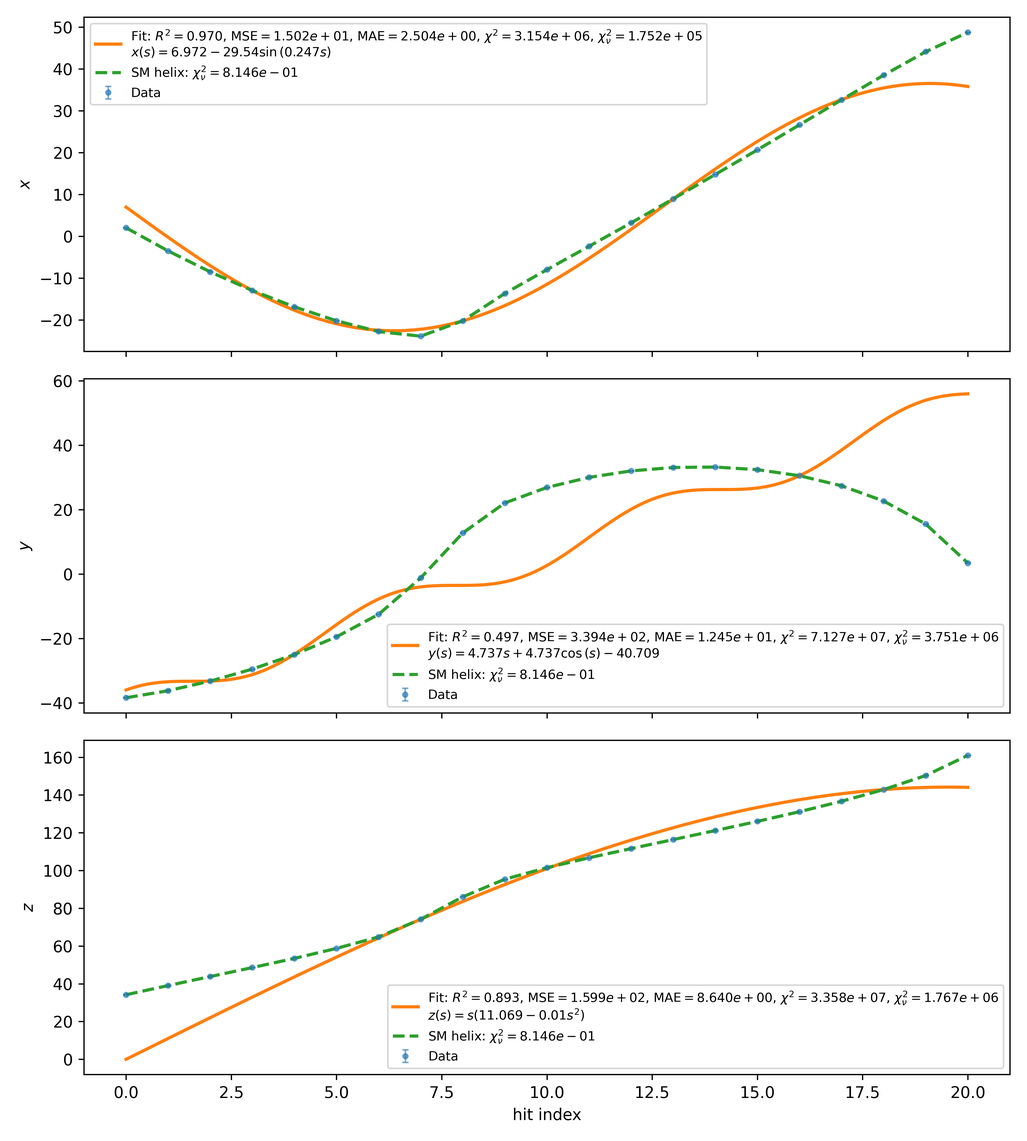
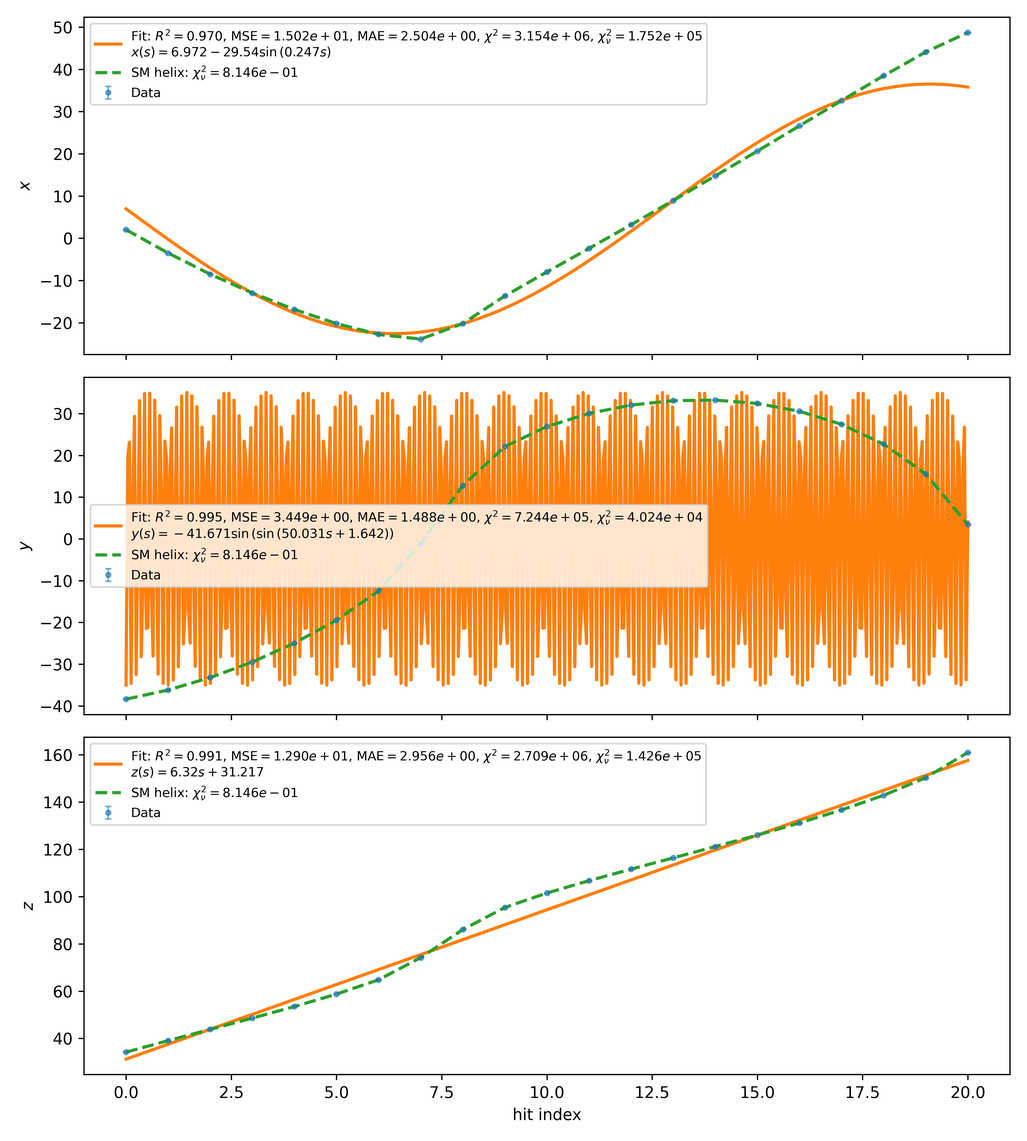
tracks

diff --git a/Whiteson/v20260122_163839__train10_test10__layers25_len320p0__r3p1-53p0__fd25-25__func3-3__noiseXY0p01_Z0p01.html b/Whiteson/v20260122_163839__train10_test10__layers25_len320p0__r3p1-53p0__fd25-25__func3-3__noiseXY0p01_Z0p01.html
@@ -67,8 +67,21 @@
     .eqJump:hover {
       border-bottom-style: solid;
     }
-
     
+    .eqScroll {
+      margin-top: 8px;
+      padding: 10px 12px;
+      background: #f7f7f7;
+      border: 1px solid #eee;
+      border-radius: 12px;
+      overflow-x: auto;
+      overflow-y: hidden;
+      white-space: nowrap;
+    }
+    .eqScroll mjx-container {
+      display: inline-block; /* keeps MathJax from forcing weird wraps */
+    }
+
     .meta { font-size: 13px; color: #444; margin: 6px 0 0; }
     .meta b { font-weight: 600; }
 
@@ -118,8 +131,8 @@
 
   <script>
     // Data injected from Python below
-    const slides = [{"fid": 0, "Fx": 0, "Fy": 9, "Fz": 5, "track_idx": 0, "event_id": "event100000001-hits", "png": "pngs/SR_track_v20260122_163839__train10_test10__layers25_len320p0__r3p1-53p0__fd25-25__func3-3__noiseXY0p01_Z0p01event100000001-hits.png", "img_src": "pngs/SR_track_v20260122_163839__train10_test10__layers25_len320p0__r3p1-53p0__fd25-25__func3-3__noiseXY0p01_Z0p01event100000001-hits.png", "metrics_line": "\\begin{align*}&R^2:\\, x=0.776,\\;y=0.970,\\;z=0.725\\\\&\\chi^2_\\nu:\\;\\mathrm{x}=2.898 \\times 10^{5},\\;\\mathrm{y}=7.390 \\times 10^{4},\\;\\mathrm{z}=1.768 \\times 10^{6}\\end{align*}", "eqx": "$x(s) = - 7.415 \\sqrt{s} + s^{\\cos{\\left(s \\right)}}$", "eqy": "$y(s) = - 2 s - \\cos{\\left(s \\right)} + 7.898$", "eqz": "$z(s) = 71.182 \\sin{\\left(\\frac{s}{\\cos{\\left(s \\right)} - 14.387} \\right)}$"}, {"fid": 1, "Fx": 8, "Fy": 1, "Fz": 1, "track_idx": 1, "event_id": "event100000002-hits", "png": "pngs/SR_track_v20260122_163839__train10_test10__layers25_len320p0__r3p1-53p0__fd25-25__func3-3__noiseXY0p01_Z0p01event100000002-hits.png", "img_src": "pngs/SR_track_v20260122_163839__train10_test10__layers25_len320p0__r3p1-53p0__fd25-25__func3-3__noiseXY0p01_Z0p01event100000002-hits.png", "metrics_line": "\\begin{align*}&R^2:\\, x=1.000,\\;y=0.999,\\;z=1.000\\\\&\\chi^2_\\nu:\\;\\mathrm{x}=6.955 \\times 10^{0},\\;\\mathrm{y}=1.372 \\times 10^{2},\\;\\mathrm{z}=4.985 \\times 10^{0}\\end{align*}", "eqx": "$x(s) = s \\left(2.141 - 0.005 s\\right) + 2.886$", "eqy": "$y(s) = - s \\tanh{\\left(\\tanh{\\left(0.031 s \\right)} \\right)} + 1.307$", "eqz": "$z(s) = 0.137 \\left(0.285 s + 1\\right)^{2.309} + 0.161$"}, {"fid": 2, "Fx": 12, "Fy": 5, "Fz": 6, "track_idx": 2, "event_id": "event100000003-hits", "png": "pngs/SR_track_v20260122_163839__train10_test10__layers25_len320p0__r3p1-53p0__fd25-25__func3-3__noiseXY0p01_Z0p01event100000003-hits.png", "img_src": "pngs/SR_track_v20260122_163839__train10_test10__layers25_len320p0__r3p1-53p0__fd25-25__func3-3__noiseXY0p01_Z0p01event100000003-hits.png", "metrics_line": "\\begin{align*}&R^2:\\, x=0.557,\\;y=0.682,\\;z=0.715\\\\&\\chi^2_\\nu:\\;\\mathrm{x}=1.803 \\times 10^{6},\\;\\mathrm{y}=1.831 \\times 10^{6},\\;\\mathrm{z}=5.108 \\times 10^{6}\\end{align*}", "eqx": "$x(s) = 24.583 \\sin{\\left(\\sin{\\left(0.126 s \\right)} - 0.237 \\right)}$", "eqy": "$y(s) = - 28.114 \\sin{\\left(0.086 s \\right)} - 3.495$", "eqz": "$z(s) = s \\left(- 1.282 \\cdot 10^{-8} s^{3.382} - 0.36\\right)$"}, {"fid": 3, "Fx": 13, "Fy": 8, "Fz": 7, "track_idx": 3, "event_id": "event100000004-hits", "png": "pngs/SR_track_v20260122_163839__train10_test10__layers25_len320p0__r3p1-53p0__fd25-25__func3-3__noiseXY0p01_Z0p01event100000004-hits.png", "img_src": "pngs/SR_track_v20260122_163839__train10_test10__layers25_len320p0__r3p1-53p0__fd25-25__func3-3__noiseXY0p01_Z0p01event100000004-hits.png", "metrics_line": "\\begin{align*}&R^2:\\, x=0.845,\\;y=0.541,\\;z=0.459\\\\&\\chi^2_\\nu:\\;\\mathrm{x}=1.031 \\times 10^{6},\\;\\mathrm{y}=1.600 \\times 10^{6},\\;\\mathrm{z}=2.529 \\times 10^{6}\\end{align*}", "eqx": "$x(s) = 54.152 \\tanh{\\left(\\tanh{\\left(\\sin{\\left(\\sin{\\left(0.042 s \\right)} \\right)} \\right)} \\right)}$", "eqy": "$y(s) = s^{0.706} \\cos{\\left(s^{0.548} \\right)}$", "eqz": "$z(s) = s^{\\sin{\\left(1.224 e^{\\sin{\\left(\\sqrt{s} \\right)}} \\right)}}$"}, {"fid": 4, "Fx": 14, "Fy": 7, "Fz": 4, "track_idx": 4, "event_id": "event100000005-hits", "png": "pngs/SR_track_v20260122_163839__train10_test10__layers25_len320p0__r3p1-53p0__fd25-25__func3-3__noiseXY0p01_Z0p01event100000005-hits.png", "img_src": "pngs/SR_track_v20260122_163839__train10_test10__layers25_len320p0__r3p1-53p0__fd25-25__func3-3__noiseXY0p01_Z0p01event100000005-hits.png", "metrics_line": "\\begin{align*}&R^2:\\, x=0.994,\\;y=0.999,\\;z=0.944\\\\&\\chi^2_\\nu:\\;\\mathrm{x}=5.108 \\times 10^{3},\\;\\mathrm{y}=1.431 \\times 10^{3},\\;\\mathrm{z}=7.253 \\times 10^{4}\\end{align*}", "eqx": "$x(s) = s \\sin{\\left(\\cos{\\left(0.13 s \\right)} \\right)} + 4.427$", "eqy": "$y(s) = 2.114 s \\sqrt{1 - 0.223 \\sin{\\left(\\cos{\\left(\\sqrt{s} \\right)} \\right)}}$", "eqz": "$z(s) = s \\cos{\\left(0.151 s \\right)} + 5.885$"}];
-    const eqSlides = [{"key": ["x", "Add(Mul(Symbol('a0'), Pow(Symbol('s'), Rational(1, 2))), Pow(Symbol('s'), cos(Symbol('s'))))"], "eq": "$x(s) = a_{0} \\sqrt{s} + s^{\\cos{\\left(s \\right)}}$", "uses": [{"slide": 0, "label": "1-x", "rep_fam": 0}]}, {"key": ["y", "Add(Symbol('a0'), Mul(Integer(-1), Integer(2), Symbol('s')), Mul(Integer(-1), cos(Symbol('s'))))"], "eq": "$y(s) = a_{0} - 2 s - \\cos{\\left(s \\right)}$", "uses": [{"slide": 0, "label": "1-y", "rep_fam": 9}]}, {"key": ["z", "Mul(Symbol('a1'), sin(Mul(Symbol('s'), Pow(Add(Symbol('a0'), cos(Symbol('s'))), Integer(-1)))))"], "eq": "$z(s) = a_{1} \\sin{\\left(\\frac{s}{a_{0} + \\cos{\\left(s \\right)}} \\right)}$", "uses": [{"slide": 0, "label": "1-z", "rep_fam": 5}]}, {"key": ["x", "Add(Symbol('a2'), Mul(Symbol('s'), Add(Mul(Symbol('a0'), Symbol('s')), Symbol('a1'))))"], "eq": "$x(s) = a_{2} + s \\left(a_{0} s + a_{1}\\right)$", "uses": [{"slide": 1, "label": "2-x", "rep_fam": 8}]}, {"key": ["y", "Add(Symbol('a1'), Mul(Integer(-1), Symbol('s'), tanh(tanh(Mul(Symbol('a0'), Symbol('s'))))))"], "eq": "$y(s) = a_{1} - s \\tanh{\\left(\\tanh{\\left(a_{0} s \\right)} \\right)}$", "uses": [{"slide": 1, "label": "2-y", "rep_fam": 1}]}, {"key": ["z", "Add(Mul(Symbol('a0'), Pow(Add(Mul(Symbol('a2'), Symbol('s')), Integer(1)), Symbol('a3'))), Symbol('a1'))"], "eq": "$z(s) = a_{0} \\left(a_{2} s + 1\\right)^{a_{3}} + a_{1}$", "uses": [{"slide": 1, "label": "2-z", "rep_fam": 1}]}, {"key": ["x", "Mul(Symbol('a2'), sin(Add(Symbol('a0'), sin(Mul(Symbol('a1'), Symbol('s'))))))"], "eq": "$x(s) = a_{2} \\sin{\\left(a_{0} + \\sin{\\left(a_{1} s \\right)} \\right)}$", "uses": [{"slide": 2, "label": "3-x", "rep_fam": 12}]}, {"key": ["y", "Add(Mul(Symbol('a0'), sin(Mul(Symbol('a2'), Symbol('s')))), Symbol('a1'))"], "eq": "$y(s) = a_{0} \\sin{\\left(a_{2} s \\right)} + a_{1}$", "uses": [{"slide": 2, "label": "3-y", "rep_fam": 5}]}, {"key": ["z", "Mul(Symbol('s'), Add(Symbol('a0'), Mul(Symbol('a1'), Pow(Symbol('s'), Symbol('a2')))))"], "eq": "$z(s) = s \\left(a_{0} + a_{1} s^{a_{2}}\\right)$", "uses": [{"slide": 2, "label": "3-z", "rep_fam": 6}]}, {"key": ["x", "Mul(Symbol('a1'), tanh(tanh(sin(sin(Mul(Symbol('a0'), Symbol('s')))))))"], "eq": "$x(s) = a_{1} \\tanh{\\left(\\tanh{\\left(\\sin{\\left(\\sin{\\left(a_{0} s \\right)} \\right)} \\right)} \\right)}$", "uses": [{"slide": 3, "label": "4-x", "rep_fam": 13}]}, {"key": ["y", "Mul(Pow(Symbol('s'), Symbol('a1')), cos(Pow(Symbol('s'), Symbol('a0'))))"], "eq": "$y(s) = s^{a_{1}} \\cos{\\left(s^{a_{0}} \\right)}$", "uses": [{"slide": 3, "label": "4-y", "rep_fam": 8}]}, {"key": ["z", "Pow(Symbol('s'), sin(Mul(Symbol('a0'), exp(sin(Pow(Symbol('s'), Rational(1, 2)))))))"], "eq": "$z(s) = s^{\\sin{\\left(a_{0} e^{\\sin{\\left(\\sqrt{s} \\right)}} \\right)}}$", "uses": [{"slide": 3, "label": "4-z", "rep_fam": 7}]}, {"key": ["x", "Add(Symbol('a1'), Mul(Symbol('s'), sin(cos(Mul(Symbol('a0'), Symbol('s'))))))"], "eq": "$x(s) = a_{1} + s \\sin{\\left(\\cos{\\left(a_{0} s \\right)} \\right)}$", "uses": [{"slide": 4, "label": "5-x", "rep_fam": 14}]}, {"key": ["y", "Mul(Symbol('a1'), Symbol('s'), Pow(Add(Mul(Symbol('a0'), sin(cos(Pow(Symbol('s'), Rational(1, 2))))), Integer(1)), Rational(1, 2)))"], "eq": "$y(s) = a_{1} s \\sqrt{a_{0} \\sin{\\left(\\cos{\\left(\\sqrt{s} \\right)} \\right)} + 1}$", "uses": [{"slide": 4, "label": "5-y", "rep_fam": 7}]}, {"key": ["z", "Add(Symbol('a1'), Mul(Symbol('s'), cos(Mul(Symbol('a0'), Symbol('s')))))"], "eq": "$z(s) = a_{1} + s \\cos{\\left(a_{0} s \\right)}$", "uses": [{"slide": 4, "label": "5-z", "rep_fam": 4}]}];
+    const slides = [{"fid": 0, "Fx": 0, "Fy": 9, "Fz": 5, "track_idx": 0, "event_id": "event100000001-hits", "png": "pngs/SR_track_v20260122_163839__train10_test10__layers25_len320p0__r3p1-53p0__fd25-25__func3-3__noiseXY0p01_Z0p01event100000001-hits.png", "img_src": "pngs/SR_track_v20260122_163839__train10_test10__layers25_len320p0__r3p1-53p0__fd25-25__func3-3__noiseXY0p01_Z0p01event100000001-hits.png", "metrics_line": "\\begin{align*}&R^2:\\, x=0.776,\\;y=0.970,\\;z=0.725\\\\&\\chi^2_\\nu:\\;\\mathrm{x}=2.898 \\times 10^{5},\\;\\mathrm{y}=7.390 \\times 10^{4},\\;\\mathrm{z}=1.768 \\times 10^{6}\\end{align*}", "eqx": "$x(s) = - 7.415 \\sqrt{s} + s^{\\cos{\\left(s \\right)}}$", "eqy": "$y(s) = - 2 s - \\cos{\\left(s \\right)} + 7.898$", "eqz": "$z(s) = 71.182 \\sin{\\left(\\frac{s}{\\cos{\\left(s \\right)} - 14.387} \\right)}$"}, {"fid": 1, "Fx": 8, "Fy": 1, "Fz": 1, "track_idx": 1, "event_id": "event100000002-hits", "png": "pngs/SR_track_v20260122_163839__train10_test10__layers25_len320p0__r3p1-53p0__fd25-25__func3-3__noiseXY0p01_Z0p01event100000002-hits.png", "img_src": "pngs/SR_track_v20260122_163839__train10_test10__layers25_len320p0__r3p1-53p0__fd25-25__func3-3__noiseXY0p01_Z0p01event100000002-hits.png", "metrics_line": "\\begin{align*}&R^2:\\, x=1.000,\\;y=0.999,\\;z=1.000\\\\&\\chi^2_\\nu:\\;\\mathrm{x}=6.955 \\times 10^{0},\\;\\mathrm{y}=1.372 \\times 10^{2},\\;\\mathrm{z}=4.985 \\times 10^{0}\\end{align*}", "eqx": "$x(s) = s \\left(2.141 - 0.005 s\\right) + 2.886$", "eqy": "$y(s) = - s \\tanh{\\left(\\tanh{\\left(0.031 s \\right)} \\right)} + 1.307$", "eqz": "$z(s) = 0.137 \\left(0.285 s + 1\\right)^{2.309} + 0.161$"}, {"fid": 2, "Fx": 12, "Fy": 5, "Fz": 29, "track_idx": 2, "event_id": "event100000003-hits", "png": "pngs/SR_track_v20260122_163839__train10_test10__layers25_len320p0__r3p1-53p0__fd25-25__func3-3__noiseXY0p01_Z0p01event100000003-hits.png", "img_src": "pngs/SR_track_v20260122_163839__train10_test10__layers25_len320p0__r3p1-53p0__fd25-25__func3-3__noiseXY0p01_Z0p01event100000003-hits.png", "metrics_line": "\\begin{align*}&R^2:\\, x=0.557,\\;y=0.682,\\;z=0.999\\\\&\\chi^2_\\nu:\\;\\mathrm{x}=1.803 \\times 10^{6},\\;\\mathrm{y}=1.831 \\times 10^{6},\\;\\mathrm{z}=1.431 \\times 10^{4}\\end{align*}", "eqx": "$x(s) = 24.583 \\sin{\\left(\\sin{\\left(0.126 s \\right)} - 0.237 \\right)}$", "eqy": "$y(s) = - 28.114 \\sin{\\left(0.086 s \\right)} - 3.495$", "eqz": "$z(s) = 2 s - 2.443 s^{{1.026}^{\\cos{\\left(\\sqrt{s} \\right)}}} - 4.846 \\sin{\\left(0.367 s \\right)} + 2.454 \\sin{\\left(0.45 s \\right)} + \\sin{\\left(1.792 \\sqrt{0.311 {1.052}^{s^{0.993}} + 1} \\right)} + \\sin{\\left(\\cos{\\left(0.278 s^{1.114} \\right)} \\right)} + \\cos{\\left(2.055 s^{0.841} \\right)} + 1.545 \\cos{\\left(0.592 s \\right)} + \\cos{\\left(0.697 s \\right)} + 8.162 \\cos{\\left(s^{0.693} - 2.638 \\right)} + 26.135 \\cos{\\left(54.534 \\sqrt{0.006 s + 1} \\right)} + \\cos{\\left(\\log{\\left({1.502}^{s^{0.998}} \\right)} \\right)} + 25.153 \\tanh{\\left(\\cos{\\left({1.014}^{s} \\right)} \\right)} - 1.144 - \\frac{0.041}{\\operatorname{asin}{\\left(\\cos{\\left(1.065 \\sqrt{0.882 s + 1} \\right)} \\right)}} - \\frac{0.032}{\\sin{\\left(4 s - 3.046 \\right)}} + e^{- 1.983 \\sin{\\left(0.266 s - 0.668 \\right)}} - \\frac{6.012 \\cos{\\left(s - 9.779 \\right)}}{s + 1.214} + \\frac{2.253}{s - 43.423} + \\frac{11.891}{118.389 - s}$"}, {"fid": 3, "Fx": 13, "Fy": 8, "Fz": 7, "track_idx": 3, "event_id": "event100000004-hits", "png": "pngs/SR_track_v20260122_163839__train10_test10__layers25_len320p0__r3p1-53p0__fd25-25__func3-3__noiseXY0p01_Z0p01event100000004-hits.png", "img_src": "pngs/SR_track_v20260122_163839__train10_test10__layers25_len320p0__r3p1-53p0__fd25-25__func3-3__noiseXY0p01_Z0p01event100000004-hits.png", "metrics_line": "\\begin{align*}&R^2:\\, x=0.845,\\;y=0.541,\\;z=0.459\\\\&\\chi^2_\\nu:\\;\\mathrm{x}=1.031 \\times 10^{6},\\;\\mathrm{y}=1.600 \\times 10^{6},\\;\\mathrm{z}=2.529 \\times 10^{6}\\end{align*}", "eqx": "$x(s) = 54.152 \\tanh{\\left(\\tanh{\\left(\\sin{\\left(\\sin{\\left(0.042 s \\right)} \\right)} \\right)} \\right)}$", "eqy": "$y(s) = s^{0.706} \\cos{\\left(s^{0.548} \\right)}$", "eqz": "$z(s) = s^{\\sin{\\left(1.224 e^{\\sin{\\left(\\sqrt{s} \\right)}} \\right)}}$"}, {"fid": 4, "Fx": 14, "Fy": 7, "Fz": 4, "track_idx": 4, "event_id": "event100000005-hits", "png": "pngs/SR_track_v20260122_163839__train10_test10__layers25_len320p0__r3p1-53p0__fd25-25__func3-3__noiseXY0p01_Z0p01event100000005-hits.png", "img_src": "pngs/SR_track_v20260122_163839__train10_test10__layers25_len320p0__r3p1-53p0__fd25-25__func3-3__noiseXY0p01_Z0p01event100000005-hits.png", "metrics_line": "\\begin{align*}&R^2:\\, x=0.994,\\;y=0.999,\\;z=0.944\\\\&\\chi^2_\\nu:\\;\\mathrm{x}=5.108 \\times 10^{3},\\;\\mathrm{y}=1.431 \\times 10^{3},\\;\\mathrm{z}=7.253 \\times 10^{4}\\end{align*}", "eqx": "$x(s) = s \\sin{\\left(\\cos{\\left(0.13 s \\right)} \\right)} + 4.427$", "eqy": "$y(s) = 2.114 s \\sqrt{1 - 0.223 \\sin{\\left(\\cos{\\left(\\sqrt{s} \\right)} \\right)}}$", "eqz": "$z(s) = s \\cos{\\left(0.151 s \\right)} + 5.885$"}];
+    const eqSlides = [{"key": ["x", "Add(Mul(Symbol('a0'), Pow(Symbol('s'), Rational(1, 2))), Pow(Symbol('s'), cos(Symbol('s'))))"], "eq": "$x(s) = a_{0} \\sqrt{s} + s^{\\cos{\\left(s \\right)}}$", "uses": [{"slide": 0, "label": "1-x", "rep_fam": 0}]}, {"key": ["y", "Add(Symbol('a0'), Mul(Integer(-1), Integer(2), Symbol('s')), Mul(Integer(-1), cos(Symbol('s'))))"], "eq": "$y(s) = a_{0} - 2 s - \\cos{\\left(s \\right)}$", "uses": [{"slide": 0, "label": "1-y", "rep_fam": 9}]}, {"key": ["z", "Mul(Symbol('a1'), sin(Mul(Symbol('s'), Pow(Add(Symbol('a0'), cos(Symbol('s'))), Integer(-1)))))"], "eq": "$z(s) = a_{1} \\sin{\\left(\\frac{s}{a_{0} + \\cos{\\left(s \\right)}} \\right)}$", "uses": [{"slide": 0, "label": "1-z", "rep_fam": 5}]}, {"key": ["x", "Add(Symbol('a2'), Mul(Symbol('s'), Add(Mul(Symbol('a0'), Symbol('s')), Symbol('a1'))))"], "eq": "$x(s) = a_{2} + s \\left(a_{0} s + a_{1}\\right)$", "uses": [{"slide": 1, "label": "2-x", "rep_fam": 8}]}, {"key": ["y", "Add(Symbol('a1'), Mul(Integer(-1), Symbol('s'), tanh(tanh(Mul(Symbol('a0'), Symbol('s'))))))"], "eq": "$y(s) = a_{1} - s \\tanh{\\left(\\tanh{\\left(a_{0} s \\right)} \\right)}$", "uses": [{"slide": 1, "label": "2-y", "rep_fam": 1}]}, {"key": ["z", "Add(Mul(Symbol('a0'), Pow(Add(Mul(Symbol('a2'), Symbol('s')), Integer(1)), Symbol('a3'))), Symbol('a1'))"], "eq": "$z(s) = a_{0} \\left(a_{2} s + 1\\right)^{a_{3}} + a_{1}$", "uses": [{"slide": 1, "label": "2-z", "rep_fam": 1}]}, {"key": ["x", "Mul(Symbol('a2'), sin(Add(Symbol('a0'), sin(Mul(Symbol('a1'), Symbol('s'))))))"], "eq": "$x(s) = a_{2} \\sin{\\left(a_{0} + \\sin{\\left(a_{1} s \\right)} \\right)}$", "uses": [{"slide": 2, "label": "3-x", "rep_fam": 12}]}, {"key": ["y", "Add(Mul(Symbol('a0'), sin(Mul(Symbol('a2'), Symbol('s')))), Symbol('a1'))"], "eq": "$y(s) = a_{0} \\sin{\\left(a_{2} s \\right)} + a_{1}$", "uses": [{"slide": 2, "label": "3-y", "rep_fam": 5}]}, {"key": ["z", "Add(Mul(Symbol('a10'), Pow(asin(cos(Mul(Symbol('a28'), Pow(Add(Mul(Symbol('a22'), Symbol('s')), Integer(1)), Rational(1, 2))))), Integer(-1))), Mul(Symbol('a11'), Pow(sin(Add(Symbol('a4'), Mul(Integer(4), Symbol('s')))), Integer(-1))), Mul(Symbol('a2'), Pow(Add(Symbol('a30'), Symbol('s')), Integer(-1)), cos(Add(Symbol('a1'), Symbol('s')))), Mul(Symbol('a3'), sin(Mul(Symbol('a16'), Symbol('s')))), Mul(Symbol('a32'), cos(Mul(Symbol('a18'), Symbol('s')))), Mul(Symbol('a35'), Pow(Add(Symbol('a0'), Symbol('s')), Integer(-1))), Mul(Symbol('a36'), sin(Mul(Symbol('a17'), Symbol('s')))), Mul(Symbol('a37'), cos(Add(Symbol('a5'), Pow(Symbol('s'), Symbol('a19'))))), Mul(Symbol('a38'), Pow(Add(Symbol('a42'), Mul(Integer(-1), Symbol('s'))), Integer(-1))), Mul(Symbol('a39'), tanh(cos(Pow(Symbol('a25'), Symbol('s'))))), Mul(Symbol('a40'), cos(Mul(Symbol('a41'), Pow(Add(Mul(Symbol('a12'), Symbol('s')), Integer(1)), Rational(1, 2))))), Mul(Symbol('a6'), Pow(Symbol('s'), Pow(Symbol('a26'), cos(Pow(Symbol('s'), Rational(1, 2)))))), Symbol('a8'), Mul(Integer(2), Symbol('s')), exp(Mul(Symbol('a7'), sin(Add(Mul(Symbol('a13'), Symbol('s')), Symbol('a9'))))), sin(Mul(Symbol('a33'), Pow(Add(Mul(Symbol('a15'), Pow(Symbol('a27'), Pow(Symbol('s'), Symbol('a23')))), Integer(1)), Rational(1, 2)))), sin(cos(Mul(Symbol('a14'), Pow(Symbol('s'), Symbol('a29'))))), cos(Mul(Symbol('a20'), Symbol('s'))), cos(Mul(Symbol('a34'), Pow(Symbol('s'), Symbol('a21')))), cos(log(Pow(Symbol('a31'), Pow(Symbol('s'), Symbol('a24'))))))"], "eq": "$z(s) = \\frac{a_{10}}{\\operatorname{asin}{\\left(\\cos{\\left(a_{28} \\sqrt{a_{22} s + 1} \\right)} \\right)}} + \\frac{a_{11}}{\\sin{\\left(a_{4} + 4 s \\right)}} + \\frac{a_{2} \\cos{\\left(a_{1} + s \\right)}}{a_{30} + s} + a_{3} \\sin{\\left(a_{16} s \\right)} + a_{32} \\cos{\\left(a_{18} s \\right)} + \\frac{a_{35}}{a_{0} + s} + a_{36} \\sin{\\left(a_{17} s \\right)} + a_{37} \\cos{\\left(a_{5} + s^{a_{19}} \\right)} + \\frac{a_{38}}{a_{42} - s} + a_{39} \\tanh{\\left(\\cos{\\left(a_{25}^{s} \\right)} \\right)} + a_{40} \\cos{\\left(a_{41} \\sqrt{a_{12} s + 1} \\right)} + a_{6} s^{a_{26}^{\\cos{\\left(\\sqrt{s} \\right)}}} + a_{8} + 2 s + e^{a_{7} \\sin{\\left(a_{13} s + a_{9} \\right)}} + \\sin{\\left(a_{33} \\sqrt{a_{15} a_{27}^{s^{a_{23}}} + 1} \\right)} + \\sin{\\left(\\cos{\\left(a_{14} s^{a_{29}} \\right)} \\right)} + \\cos{\\left(a_{20} s \\right)} + \\cos{\\left(a_{34} s^{a_{21}} \\right)} + \\cos{\\left(\\log{\\left(a_{31}^{s^{a_{24}}} \\right)} \\right)}$", "uses": [{"slide": 2, "label": "3-z", "rep_fam": 29}]}, {"key": ["x", "Mul(Symbol('a1'), tanh(tanh(sin(sin(Mul(Symbol('a0'), Symbol('s')))))))"], "eq": "$x(s) = a_{1} \\tanh{\\left(\\tanh{\\left(\\sin{\\left(\\sin{\\left(a_{0} s \\right)} \\right)} \\right)} \\right)}$", "uses": [{"slide": 3, "label": "4-x", "rep_fam": 13}]}, {"key": ["y", "Mul(Pow(Symbol('s'), Symbol('a1')), cos(Pow(Symbol('s'), Symbol('a0'))))"], "eq": "$y(s) = s^{a_{1}} \\cos{\\left(s^{a_{0}} \\right)}$", "uses": [{"slide": 3, "label": "4-y", "rep_fam": 8}]}, {"key": ["z", "Pow(Symbol('s'), sin(Mul(Symbol('a0'), exp(sin(Pow(Symbol('s'), Rational(1, 2)))))))"], "eq": "$z(s) = s^{\\sin{\\left(a_{0} e^{\\sin{\\left(\\sqrt{s} \\right)}} \\right)}}$", "uses": [{"slide": 3, "label": "4-z", "rep_fam": 7}]}, {"key": ["x", "Add(Symbol('a1'), Mul(Symbol('s'), sin(cos(Mul(Symbol('a0'), Symbol('s'))))))"], "eq": "$x(s) = a_{1} + s \\sin{\\left(\\cos{\\left(a_{0} s \\right)} \\right)}$", "uses": [{"slide": 4, "label": "5-x", "rep_fam": 14}]}, {"key": ["y", "Mul(Symbol('a1'), Symbol('s'), Pow(Add(Mul(Symbol('a0'), sin(cos(Pow(Symbol('s'), Rational(1, 2))))), Integer(1)), Rational(1, 2)))"], "eq": "$y(s) = a_{1} s \\sqrt{a_{0} \\sin{\\left(\\cos{\\left(\\sqrt{s} \\right)} \\right)} + 1}$", "uses": [{"slide": 4, "label": "5-y", "rep_fam": 7}]}, {"key": ["z", "Add(Symbol('a1'), Mul(Symbol('s'), cos(Mul(Symbol('a0'), Symbol('s')))))"], "eq": "$z(s) = a_{1} + s \\cos{\\left(a_{0} s \\right)}$", "uses": [{"slide": 4, "label": "5-z", "rep_fam": 4}]}];
     const eqStats  = {"unique": 15, "total_components": 15};
 
     function escapeHtml(s) {
@@ -130,7 +143,11 @@
       const t = slides[i];
 
       // NOTE: eqx/eqy/eqz are already "$...$" strings.
-      const eqBlock = `${t.eqx}<br/>${t.eqy}<br/>${t.eqz}`;
+      const eqBlock = `
+          <div class="eqScroll">${t.eqx}</div>
+          <div class="eqScroll">${t.eqy}</div>
+          <div class="eqScroll">${t.eqz}</div>
+        `;
 
       const html = `
       <div class="meta">
@@ -205,7 +222,7 @@
 
         <div class="eq" style="margin-top:10px;">
           <div><b>Equation ${eqIdx + 1}:</b></div>
-          <div style="margin-top:6px;">${e.eq}</div>
+          <div class="eqScroll" style="margin-top:6px;">${e.eq}</div>
           <div class="meta" style="margin-top:10px;">
             ${usesHtml}
           </div>

diff --git a/Whiteson/v20260202_142140__train10_test10__layers25_len320p0__r3p1-53p0__fd25-25__func3-3__noiseXY0p01_Z0p01__standardModel.html b/Whiteson/v20260202_142140__train10_test10__layers25_len320p0__r3p1-53p0__fd25-25__func3-3__noiseXY0p01_Z0p01__standardModel.html
@@ -67,8 +67,21 @@
     .eqJump:hover {
       border-bottom-style: solid;
     }
-
     
+    .eqScroll {
+      margin-top: 8px;
+      padding: 10px 12px;
+      background: #f7f7f7;
+      border: 1px solid #eee;
+      border-radius: 12px;
+      overflow-x: auto;
+      overflow-y: hidden;
+      white-space: nowrap;
+    }
+    .eqScroll mjx-container {
+      display: inline-block; /* keeps MathJax from forcing weird wraps */
+    }
+
     .meta { font-size: 13px; color: #444; margin: 6px 0 0; }
     .meta b { font-weight: 600; }
 
@@ -118,9 +131,9 @@
 
   <script>
     // Data injected from Python below
-    const slides = [{"fid": 0, "Fx": 0, "Fy": 1, "Fz": 0, "track_idx": 4, "event_id": "event100000005-hits", "png": "pngs/SR_track_v20260202_142140__train10_test10__layers25_len320p0__r3p1-53p0__fd25-25__func3-3__noiseXY0p01_Z0p01__standardModelevent100000005-hits.png", "img_src": "pngs/SR_track_v20260202_142140__train10_test10__layers25_len320p0__r3p1-53p0__fd25-25__func3-3__noiseXY0p01_Z0p01__standardModelevent100000005-hits.png", "metrics_line": "\\begin{align*}&R^2:\\, x=0.124,\\;y=0.118,\\;z=0.094\\\\&\\chi^2_\\nu:\\;\\mathrm{x}=7.730 \\times 10^{6},\\;\\mathrm{y}=5.852 \\times 10^{6},\\;\\mathrm{z}=3.376 \\times 10^{7}\\end{align*}", "eqx": "$x(s) = 3.087 \\sqrt{s} + s^{\\cos{\\left(s \\right)}}$", "eqy": "$y(s) = s \\tanh{\\left(\\tanh{\\left(0.15 s \\right)} \\right)} - 17.582$", "eqz": "$z(s) = 89.371 \\sin{\\left(\\frac{s}{\\cos{\\left(s \\right)} - 6.999} \\right)}$"}, {"fid": 1, "Fx": 0, "Fy": 3, "Fz": 0, "track_idx": 1, "event_id": "event100000002-hits", "png": "pngs/SR_track_v20260202_142140__train10_test10__layers25_len320p0__r3p1-53p0__fd25-25__func3-3__noiseXY0p01_Z0p01__standardModelevent100000002-hits.png", "img_src": "pngs/SR_track_v20260202_142140__train10_test10__layers25_len320p0__r3p1-53p0__fd25-25__func3-3__noiseXY0p01_Z0p01__standardModelevent100000002-hits.png", "metrics_line": "\\begin{align*}&R^2:\\, x=-0.009,\\;y=0.431,\\;z=0.982\\\\&\\chi^2_\\nu:\\;\\mathrm{x}=5.969 \\times 10^{6},\\;\\mathrm{y}=4.721 \\times 10^{6},\\;\\mathrm{z}=3.933 \\times 10^{5}\\end{align*}", "eqx": "$x(s) = - 2.525 \\sqrt{s} + s^{\\cos{\\left(s \\right)}}$", "eqy": "$y(s) = 0.984 s \\cos{\\left(0.176 s \\right)}$", "eqz": "$z(s) = 217.813 \\sin{\\left(\\frac{s}{\\cos{\\left(s \\right)} + 58.577} \\right)}$"}, {"fid": 2, "Fx": 2, "Fy": 0, "Fz": 2, "track_idx": 3, "event_id": "event100000004-hits", "png": "pngs/SR_track_v20260202_142140__train10_test10__layers25_len320p0__r3p1-53p0__fd25-25__func3-3__noiseXY0p01_Z0p01__standardModelevent100000004-hits.png", "img_src": "pngs/SR_track_v20260202_142140__train10_test10__layers25_len320p0__r3p1-53p0__fd25-25__func3-3__noiseXY0p01_Z0p01__standardModelevent100000004-hits.png", "metrics_line": "\\begin{align*}&R^2:\\, x=0.970,\\;y=0.497,\\;z=0.893\\\\&\\chi^2_\\nu:\\;\\mathrm{x}=1.752 \\times 10^{5},\\;\\mathrm{y}=3.751 \\times 10^{6},\\;\\mathrm{z}=1.767 \\times 10^{6}\\end{align*}", "eqx": "$x(s) = 6.972 - 29.54 \\sin{\\left(0.247 s \\right)}$", "eqy": "$y(s) = 4.737 s + 4.737 \\cos{\\left(s \\right)} - 40.709$", "eqz": "$z(s) = s \\left(11.069 - 0.01 s^{2}\\right)$"}, {"fid": 3, "Fx": 2, "Fy": 2, "Fz": 2, "track_idx": 0, "event_id": "event100000001-hits", "png": "pngs/SR_track_v20260202_142140__train10_test10__layers25_len320p0__r3p1-53p0__fd25-25__func3-3__noiseXY0p01_Z0p01__standardModelevent100000001-hits.png", "img_src": "pngs/SR_track_v20260202_142140__train10_test10__layers25_len320p0__r3p1-53p0__fd25-25__func3-3__noiseXY0p01_Z0p01__standardModelevent100000001-hits.png", "metrics_line": "\\begin{align*}&R^2:\\, x=0.716,\\;y=0.514,\\;z=0.601\\\\&\\chi^2_\\nu:\\;\\mathrm{x}=2.297 \\times 10^{6},\\;\\mathrm{y}=3.159 \\times 10^{6},\\;\\mathrm{z}=4.112 \\times 10^{7}\\end{align*}", "eqx": "$x(s) = - 21.139 \\sin{\\left(0.209 s \\right)} - 4.556$", "eqy": "$y(s) = - 22.922 \\sin{\\left(0.254 s \\right)} - 1.072$", "eqz": "$z(s) = s \\left(0.004 s^{2} - 2.311\\right)$"}, {"fid": 3, "Fx": 2, "Fy": 2, "Fz": 2, "track_idx": 2, "event_id": "event100000003-hits", "png": "pngs/SR_track_v20260202_142140__train10_test10__layers25_len320p0__r3p1-53p0__fd25-25__func3-3__noiseXY0p01_Z0p01__standardModelevent100000003-hits.png", "img_src": "pngs/SR_track_v20260202_142140__train10_test10__layers25_len320p0__r3p1-53p0__fd25-25__func3-3__noiseXY0p01_Z0p01__standardModelevent100000003-hits.png", "metrics_line": "\\begin{align*}&R^2:\\, x=0.944,\\;y=0.092,\\;z=0.986\\\\&\\chi^2_\\nu:\\;\\mathrm{x}=2.044 \\times 10^{5},\\;\\mathrm{y}=6.125 \\times 10^{6},\\;\\mathrm{z}=2.576 \\times 10^{5}\\end{align*}", "eqx": "$x(s) = 24.605 \\sin{\\left(0.2 s \\right)} - 10.825$", "eqy": "$y(s) = 2.041 - 3.66 \\sin{\\left(0.154 s \\right)}$", "eqz": "$z(s) = s \\left(1.88\\times 10^{-4} s^{2} - 3.252\\right)$"}];
-    const eqSlides = [{"key": ["x", "Add(Mul(Symbol('a0'), Pow(Symbol('s'), Rational(1, 2))), Pow(Symbol('s'), cos(Symbol('s'))))"], "eq": "$x(s) = a_{0} \\sqrt{s} + s^{\\cos{\\left(s \\right)}}$", "uses": [{"slide": 0, "label": "5-x", "rep_fam": 0}, {"slide": 1, "label": "2-x", "rep_fam": 0}]}, {"key": ["y", "Add(Symbol('a1'), Mul(Integer(-1), Symbol('s'), tanh(tanh(Mul(Symbol('a0'), Symbol('s'))))))"], "eq": "$y(s) = a_{1} - s \\tanh{\\left(\\tanh{\\left(a_{0} s \\right)} \\right)}$", "uses": [{"slide": 0, "label": "5-y", "rep_fam": 1}]}, {"key": ["z", "Mul(Symbol('a1'), sin(Mul(Symbol('s'), Pow(Add(Symbol('a0'), cos(Symbol('s'))), Integer(-1)))))"], "eq": "$z(s) = a_{1} \\sin{\\left(\\frac{s}{a_{0} + \\cos{\\left(s \\right)}} \\right)}$", "uses": [{"slide": 0, "label": "5-z", "rep_fam": 0}, {"slide": 1, "label": "2-z", "rep_fam": 0}]}, {"key": ["y", "Mul(Symbol('a1'), Symbol('s'), cos(Mul(Symbol('a0'), Symbol('s'))))"], "eq": "$y(s) = a_{1} s \\cos{\\left(a_{0} s \\right)}$", "uses": [{"slide": 1, "label": "2-y", "rep_fam": 3}]}, {"key": ["x", "Add(Symbol('a0'), Mul(Symbol('a2'), sin(Mul(Symbol('a1'), Symbol('s')))))"], "eq": "$x(s) = a_{0} + a_{2} \\sin{\\left(a_{1} s \\right)}$", "uses": [{"slide": 2, "label": "4-x", "rep_fam": 2}, {"slide": 3, "label": "1-x", "rep_fam": 2}, {"slide": 4, "label": "3-x", "rep_fam": 2}]}, {"key": ["y", "Add(Mul(Symbol('a0'), Symbol('s')), Mul(Symbol('a0'), cos(Symbol('s'))), Symbol('a1'))"], "eq": "$y(s) = a_{0} s + a_{0} \\cos{\\left(s \\right)} + a_{1}$", "uses": [{"slide": 2, "label": "4-y", "rep_fam": 0}]}, {"key": ["z", "Mul(Symbol('s'), Add(Symbol('a0'), Mul(Symbol('a1'), Pow(Symbol('s'), Integer(2)))))"], "eq": "$z(s) = s \\left(a_{0} + a_{1} s^{2}\\right)$", "uses": [{"slide": 2, "label": "4-z", "rep_fam": 2}, {"slide": 3, "label": "1-z", "rep_fam": 2}, {"slide": 4, "label": "3-z", "rep_fam": 2}]}, {"key": ["y", "Add(Mul(Symbol('a0'), sin(Mul(Symbol('s'), sin(Symbol('a2'))))), Symbol('a1'))"], "eq": "$y(s) = a_{0} \\sin{\\left(s \\sin{\\left(a_{2} \\right)} \\right)} + a_{1}$", "uses": [{"slide": 3, "label": "1-y", "rep_fam": 2}, {"slide": 4, "label": "3-y", "rep_fam": 2}]}];
-    const eqStats  = {"unique": 8, "total_components": 15};
+    const slides = [{"fid": 0, "Fx": 2, "Fy": 12, "Fz": 23, "track_idx": 3, "event_id": "event100000004-hits", "png": "pngs/SR_track_v20260202_142140__train10_test10__layers25_len320p0__r3p1-53p0__fd25-25__func3-3__noiseXY0p01_Z0p01__standardModelevent100000004-hits.png", "img_src": "pngs/SR_track_v20260202_142140__train10_test10__layers25_len320p0__r3p1-53p0__fd25-25__func3-3__noiseXY0p01_Z0p01__standardModelevent100000004-hits.png", "metrics_line": "\\begin{align*}&R^2:\\, x=0.970,\\;y=0.995,\\;z=0.991\\\\&\\chi^2_\\nu:\\;\\mathrm{x}=1.752 \\times 10^{5},\\;\\mathrm{y}=4.024 \\times 10^{4},\\;\\mathrm{z}=1.426 \\times 10^{5}\\end{align*}", "eqx": "$x(s) = 6.972 - 29.54 \\sin{\\left(0.247 s \\right)}$", "eqy": "$y(s) = - 41.671 \\sin{\\left(\\sin{\\left(50.031 s + 1.642 \\right)} \\right)}$", "eqz": "$z(s) = 6.32 s + 31.217$"}, {"fid": 1, "Fx": 15, "Fy": 10, "Fz": 23, "track_idx": 0, "event_id": "event100000001-hits", "png": "pngs/SR_track_v20260202_142140__train10_test10__layers25_len320p0__r3p1-53p0__fd25-25__func3-3__noiseXY0p01_Z0p01__standardModelevent100000001-hits.png", "img_src": "pngs/SR_track_v20260202_142140__train10_test10__layers25_len320p0__r3p1-53p0__fd25-25__func3-3__noiseXY0p01_Z0p01__standardModelevent100000001-hits.png", "metrics_line": "\\begin{align*}&R^2:\\, x=0.962,\\;y=0.948,\\;z=0.989\\\\&\\chi^2_\\nu:\\;\\mathrm{x}=3.082 \\times 10^{5},\\;\\mathrm{y}=3.355 \\times 10^{5},\\;\\mathrm{z}=1.149 \\times 10^{6}\\end{align*}", "eqx": "$x(s) = 3.685 - 42.872 \\sin{\\left(\\sin{\\left(0.208 s \\right)} \\right)}$", "eqy": "$y(s) = - 34.737 \\cos{\\left(0.2 s \\right)} - 9.156$", "eqz": "$z(s) = 7.554 s - 164.543$"}, {"fid": 2, "Fx": 15, "Fy": 13, "Fz": 26, "track_idx": 4, "event_id": "event100000005-hits", "png": "pngs/SR_track_v20260202_142140__train10_test10__layers25_len320p0__r3p1-53p0__fd25-25__func3-3__noiseXY0p01_Z0p01__standardModelevent100000005-hits.png", "img_src": "pngs/SR_track_v20260202_142140__train10_test10__layers25_len320p0__r3p1-53p0__fd25-25__func3-3__noiseXY0p01_Z0p01__standardModelevent100000005-hits.png", "metrics_line": "\\begin{align*}&R^2:\\, x=0.969,\\;y=0.981,\\;z=0.985\\\\&\\chi^2_\\nu:\\;\\mathrm{x}=2.962 \\times 10^{5},\\;\\mathrm{y}=1.243 \\times 10^{5},\\;\\mathrm{z}=5.989 \\times 10^{5}\\end{align*}", "eqx": "$x(s) = 5.376 - 44.514 \\sin{\\left(\\sin{\\left(0.198 s \\right)} \\right)}$", "eqy": "$y(s) = - s - 41.7 \\cos{\\left(0.174 s \\right)}$", "eqz": "$z(s) = - 2.747 \\sqrt{s} + 6.869 s - 149.114$"}, {"fid": 3, "Fx": 16, "Fy": 11, "Fz": 24, "track_idx": 1, "event_id": "event100000002-hits", "png": "pngs/SR_track_v20260202_142140__train10_test10__layers25_len320p0__r3p1-53p0__fd25-25__func3-3__noiseXY0p01_Z0p01__standardModelevent100000002-hits.png", "img_src": "pngs/SR_track_v20260202_142140__train10_test10__layers25_len320p0__r3p1-53p0__fd25-25__func3-3__noiseXY0p01_Z0p01__standardModelevent100000002-hits.png", "metrics_line": "\\begin{align*}&R^2:\\, x=0.951,\\;y=0.937,\\;z=0.987\\\\&\\chi^2_\\nu:\\;\\mathrm{x}=3.036 \\times 10^{5},\\;\\mathrm{y}=5.361 \\times 10^{5},\\;\\mathrm{z}=2.996 \\times 10^{5}\\end{align*}", "eqx": "$x(s) = 31.494 \\cos{\\left(0.217 s \\right)} - 6.564$", "eqy": "$y(s) = 43.994 \\sin{\\left(\\sin{\\left(0.225 s \\right)} \\right)} + 3.401$", "eqz": "$z(s) = 3.484 s - 5.235 \\sin{\\left(\\sqrt{s} \\right)} - 1.337$"}, {"fid": 4, "Fx": 17, "Fy": 12, "Fz": 25, "track_idx": 2, "event_id": "event100000003-hits", "png": "pngs/SR_track_v20260202_142140__train10_test10__layers25_len320p0__r3p1-53p0__fd25-25__func3-3__noiseXY0p01_Z0p01__standardModelevent100000003-hits.png", "img_src": "pngs/SR_track_v20260202_142140__train10_test10__layers25_len320p0__r3p1-53p0__fd25-25__func3-3__noiseXY0p01_Z0p01__standardModelevent100000003-hits.png", "metrics_line": "\\begin{align*}&R^2:\\, x=0.944,\\;y=0.962,\\;z=0.993\\\\&\\chi^2_\\nu:\\;\\mathrm{x}=2.044 \\times 10^{5},\\;\\mathrm{y}=2.536 \\times 10^{5},\\;\\mathrm{z}=1.254 \\times 10^{5}\\end{align*}", "eqx": "$x(s) = 24.605 \\sin{\\left(0.2 s \\right)} - 10.825$", "eqy": "$y(s) = 38.158 \\sin{\\left(\\sin{\\left(0.205 s + 1.227 \\right)} \\right)}$", "eqz": "$z(s) = - 2.615 s + 3.438 \\tanh{\\left(\\sqrt{s} \\right)} - 13.689$"}];
+    const eqSlides = [{"key": ["x", "Add(Symbol('a0'), Mul(Symbol('a2'), sin(Mul(Symbol('a1'), Symbol('s')))))"], "eq": "$x(s) = a_{0} + a_{2} \\sin{\\left(a_{1} s \\right)}$", "uses": [{"slide": 0, "label": "4-x", "rep_fam": 2}, {"slide": 4, "label": "3-x", "rep_fam": 17}]}, {"key": ["y", "Mul(Symbol('a2'), sin(sin(Add(Mul(Symbol('a0'), Symbol('s')), Symbol('a1')))))"], "eq": "$y(s) = a_{2} \\sin{\\left(\\sin{\\left(a_{0} s + a_{1} \\right)} \\right)}$", "uses": [{"slide": 0, "label": "4-y", "rep_fam": 12}, {"slide": 4, "label": "3-y", "rep_fam": 12}]}, {"key": ["z", "Add(Symbol('a0'), Mul(Symbol('a1'), Symbol('s')))"], "eq": "$z(s) = a_{0} + a_{1} s$", "uses": [{"slide": 0, "label": "4-z", "rep_fam": 23}, {"slide": 1, "label": "1-z", "rep_fam": 23}]}, {"key": ["x", "Add(Mul(Symbol('a0'), sin(sin(Mul(Symbol('a1'), Symbol('s'))))), Symbol('a2'))"], "eq": "$x(s) = a_{0} \\sin{\\left(\\sin{\\left(a_{1} s \\right)} \\right)} + a_{2}$", "uses": [{"slide": 1, "label": "1-x", "rep_fam": 15}, {"slide": 2, "label": "5-x", "rep_fam": 15}]}, {"key": ["y", "Add(Mul(Symbol('a0'), cos(Mul(Symbol('a2'), Symbol('s')))), Symbol('a1'))"], "eq": "$y(s) = a_{0} \\cos{\\left(a_{2} s \\right)} + a_{1}$", "uses": [{"slide": 1, "label": "1-y", "rep_fam": 10}]}, {"key": ["y", "Add(Mul(Symbol('a0'), cos(Mul(Symbol('a1'), Symbol('s')))), Mul(Integer(-1), Symbol('s')))"], "eq": "$y(s) = a_{0} \\cos{\\left(a_{1} s \\right)} - s$", "uses": [{"slide": 2, "label": "5-y", "rep_fam": 13}]}, {"key": ["z", "Add(Symbol('a0'), Mul(Symbol('a1'), Pow(Symbol('s'), Rational(1, 2))), Mul(Symbol('a2'), Symbol('s')))"], "eq": "$z(s) = a_{0} + a_{1} \\sqrt{s} + a_{2} s$", "uses": [{"slide": 2, "label": "5-z", "rep_fam": 26}]}, {"key": ["x", "Add(Symbol('a0'), Mul(Symbol('a2'), cos(Mul(Symbol('a1'), Symbol('s')))))"], "eq": "$x(s) = a_{0} + a_{2} \\cos{\\left(a_{1} s \\right)}$", "uses": [{"slide": 3, "label": "2-x", "rep_fam": 16}]}, {"key": ["y", "Add(Symbol('a1'), Mul(Symbol('a2'), sin(sin(Mul(Symbol('a0'), Symbol('s'))))))"], "eq": "$y(s) = a_{1} + a_{2} \\sin{\\left(\\sin{\\left(a_{0} s \\right)} \\right)}$", "uses": [{"slide": 3, "label": "2-y", "rep_fam": 11}]}, {"key": ["z", "Add(Mul(Symbol('a0'), sin(Pow(Symbol('s'), Rational(1, 2)))), Symbol('a1'), Mul(Symbol('a2'), Symbol('s')))"], "eq": "$z(s) = a_{0} \\sin{\\left(\\sqrt{s} \\right)} + a_{1} + a_{2} s$", "uses": [{"slide": 3, "label": "2-z", "rep_fam": 24}]}, {"key": ["z", "Add(Symbol('a0'), Mul(Symbol('a1'), Symbol('s')), Mul(Symbol('a2'), tanh(Pow(Symbol('s'), Rational(1, 2)))))"], "eq": "$z(s) = a_{0} + a_{1} s + a_{2} \\tanh{\\left(\\sqrt{s} \\right)}$", "uses": [{"slide": 4, "label": "3-z", "rep_fam": 25}]}];
+    const eqStats  = {"unique": 11, "total_components": 15};
 
     function escapeHtml(s) {
       return s.replaceAll("&","&amp;").replaceAll("<","&lt;").replaceAll(">","&gt;");
@@ -130,7 +143,11 @@
       const t = slides[i];
 
       // NOTE: eqx/eqy/eqz are already "$...$" strings.
-      const eqBlock = `${t.eqx}<br/>${t.eqy}<br/>${t.eqz}`;
+      const eqBlock = `
+          <div class="eqScroll">${t.eqx}</div>
+          <div class="eqScroll">${t.eqy}</div>
+          <div class="eqScroll">${t.eqz}</div>
+        `;
 
       const html = `
       <div class="meta">
@@ -205,7 +222,7 @@
 
         <div class="eq" style="margin-top:10px;">
           <div><b>Equation ${eqIdx + 1}:</b></div>
-          <div style="margin-top:6px;">${e.eq}</div>
+          <div class="eqScroll" style="margin-top:6px;">${e.eq}</div>
           <div class="meta" style="margin-top:10px;">
             ${usesHtml}
           </div>
